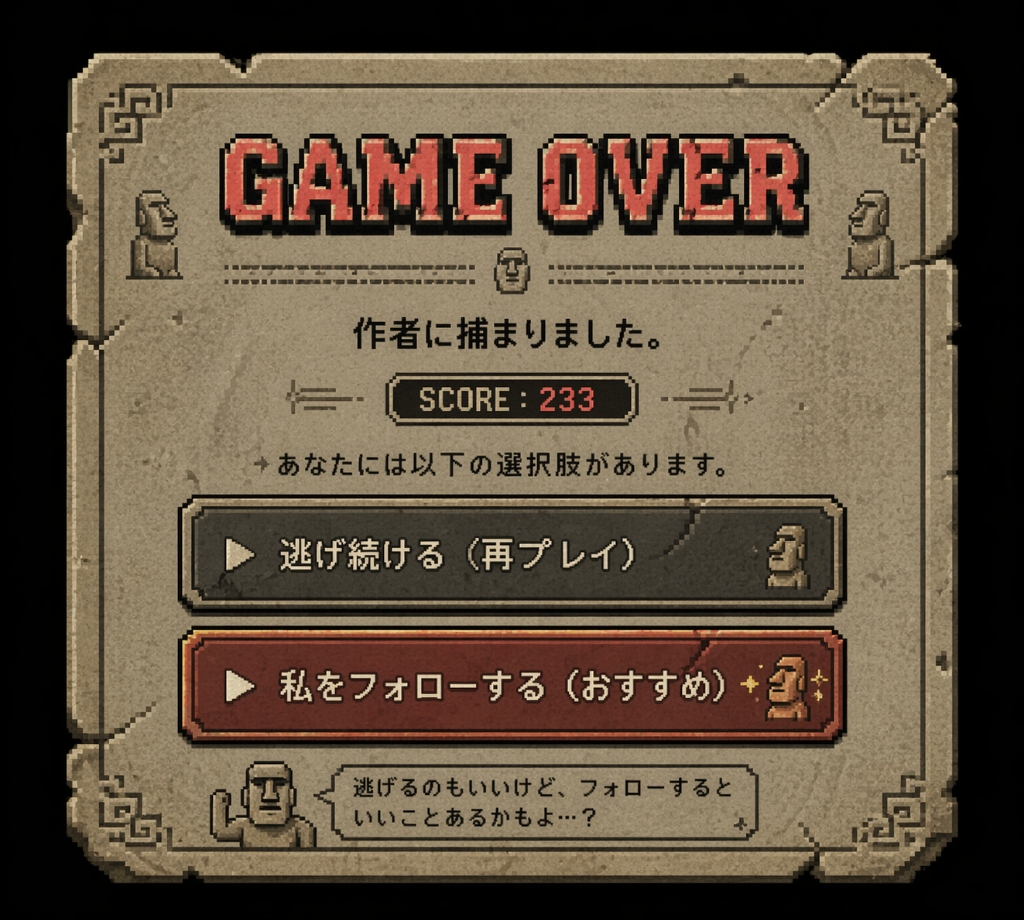
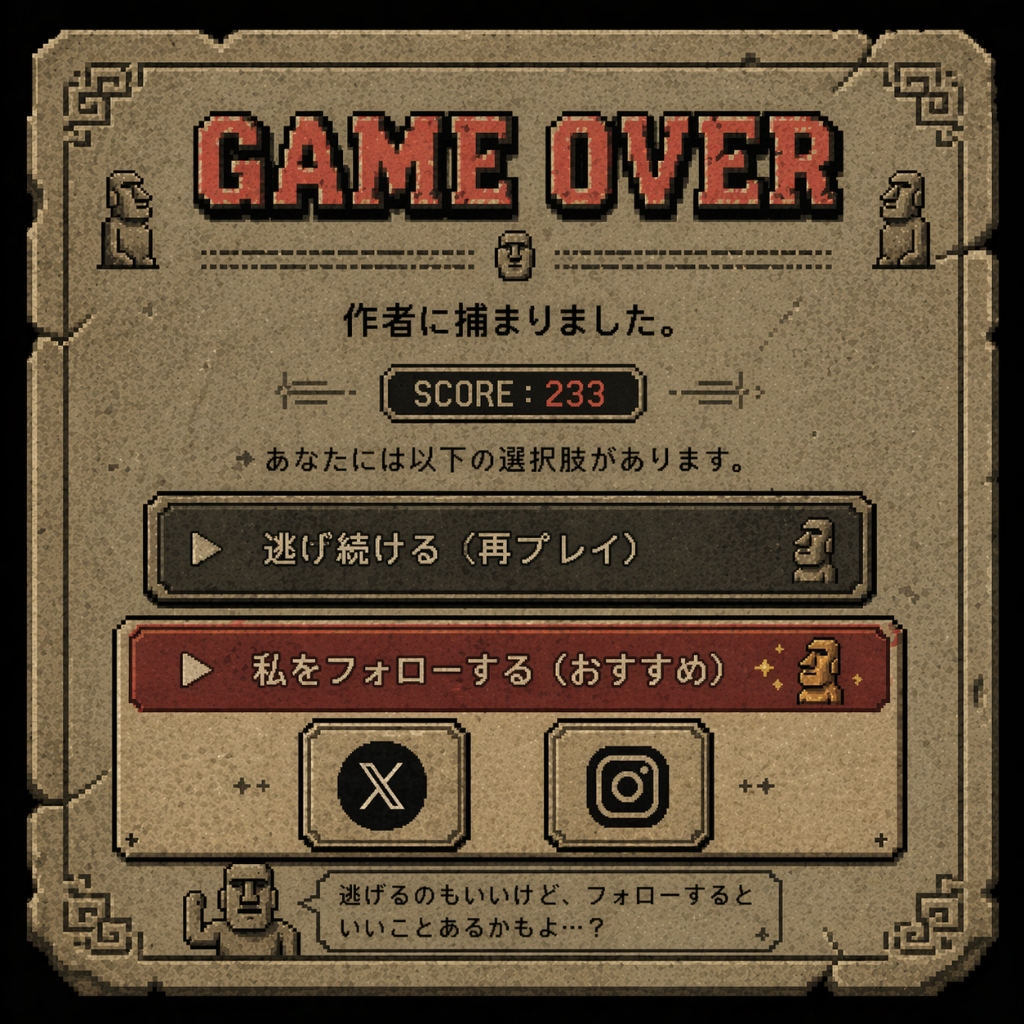
feat: add X and Insta buttons to retro game over screen

diff --git a/index.html b/index.html
@@ -179,7 +179,7 @@
             background-color: #2b2b2b; /* Match the dark gray background of the score box */
             padding: 0 10px; /* Expand the background width to cover "233" */
             font-size: 4.5vw; /* Slightly larger */
-            top: 42.5%; /* Adjusted down slightly */
+            top: 38.2%; /* Moved up for the new layout */
             left: 56.5%; /* Keeping same left */
             transform: translate(-50%, -50%);
             z-index: 10;
@@ -208,16 +208,30 @@
         /* Approximate hitboxes based on the image proportions */
         .btn-retry {
             top: 53.5%;
-            left: 17%;
-            width: 66%;
-            height: 12%;
+            left: 14%;
+            width: 72%;
+            height: 9.5%;
         }
 
         .btn-follow {
-            top: 67%;
-            left: 17%;
-            width: 66%;
-            height: 12%;
+            top: 65%;
+            left: 11%;
+            width: 78%;
+            height: 9.5%;
+        }
+
+        .btn-x {
+            top: 75.5%;
+            left: 29.5%;
+            width: 15%;
+            height: 12.5%;
+        }
+
+        .btn-insta {
+            top: 75.5%;
+            left: 54%;
+            width: 15%;
+            height: 12.5%;
         }
 
     </style>

diff --git a/main.js b/main.js
@@ -287,6 +287,8 @@ function animate() {
           <div class="retro-score">${score}</div>
           <button class="retro-btn btn-retry" onclick="location.reload()" aria-label="Retry"></button>
           <button class="retro-btn btn-follow" onclick="window.open('https://www.instagram.com/moataro_k/', '_blank')" aria-label="Follow"></button>
+          <button class="retro-btn btn-x" onclick="window.open('https://twitter.com/YOUR_X_ID', '_blank')" aria-label="Twitter/X"></button>
+          <button class="retro-btn btn-insta" onclick="window.open('https://www.instagram.com/moataro_k/', '_blank')" aria-label="Instagram"></button>
         </div>
       `;
     }
